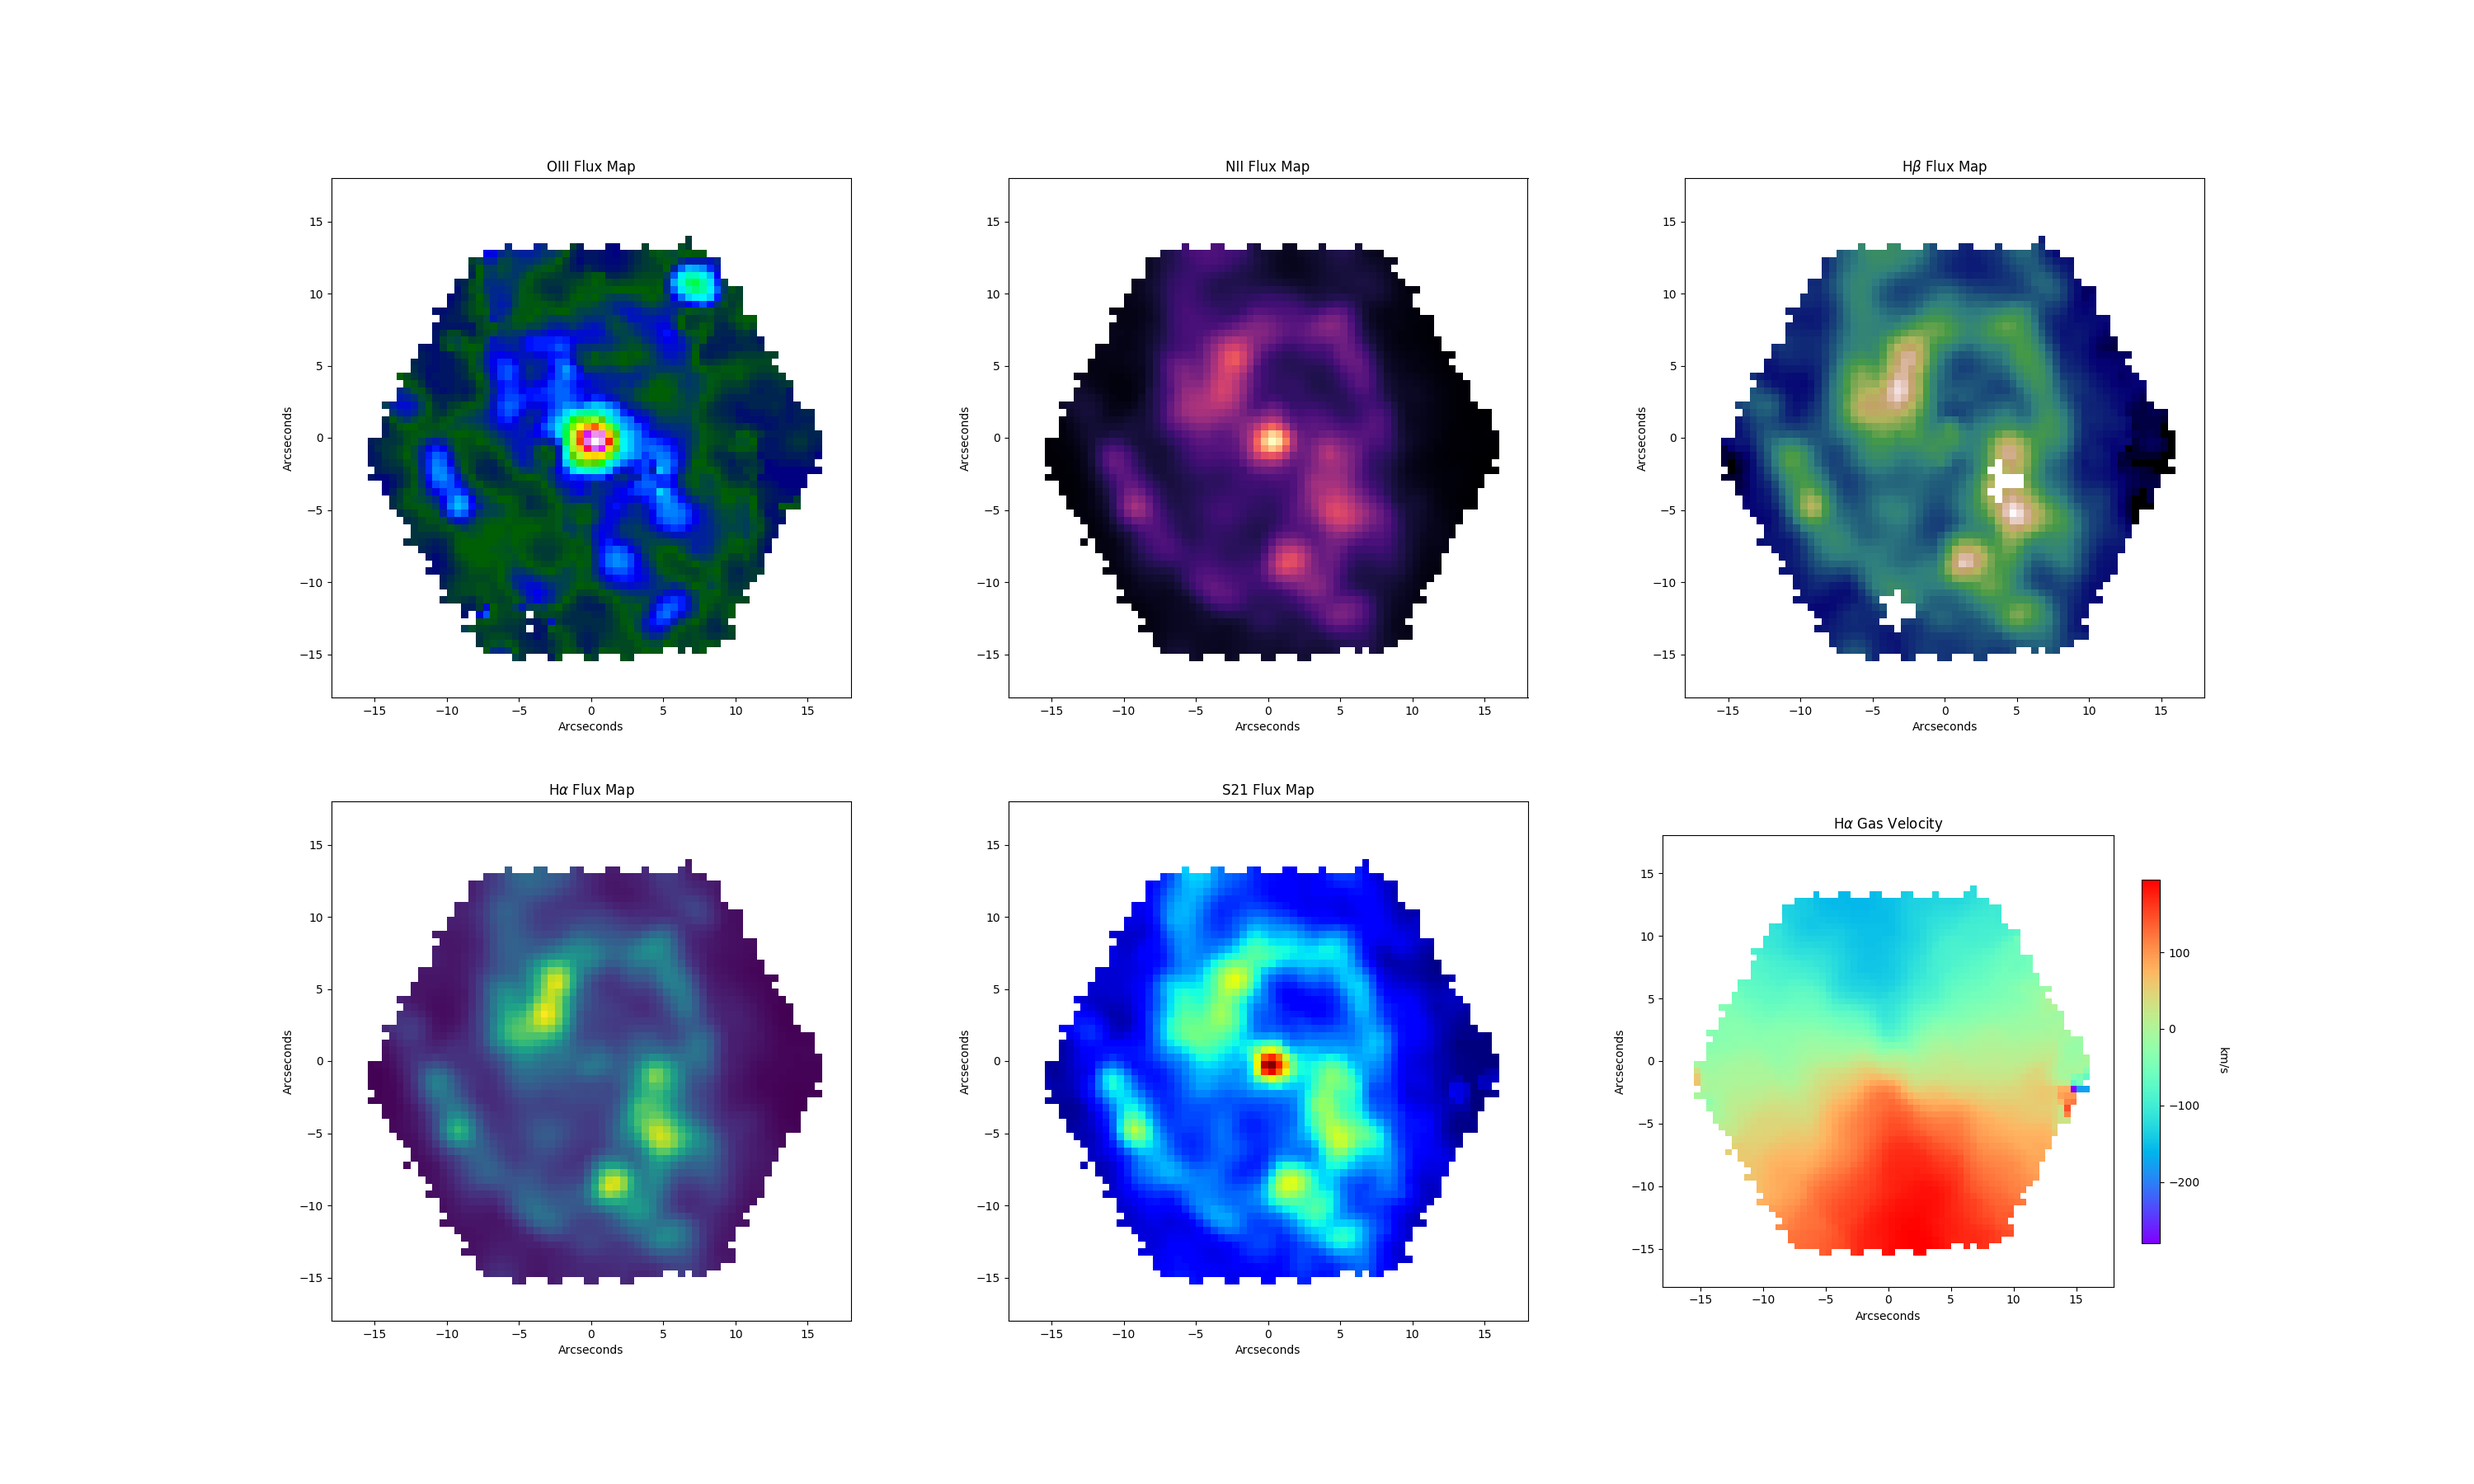
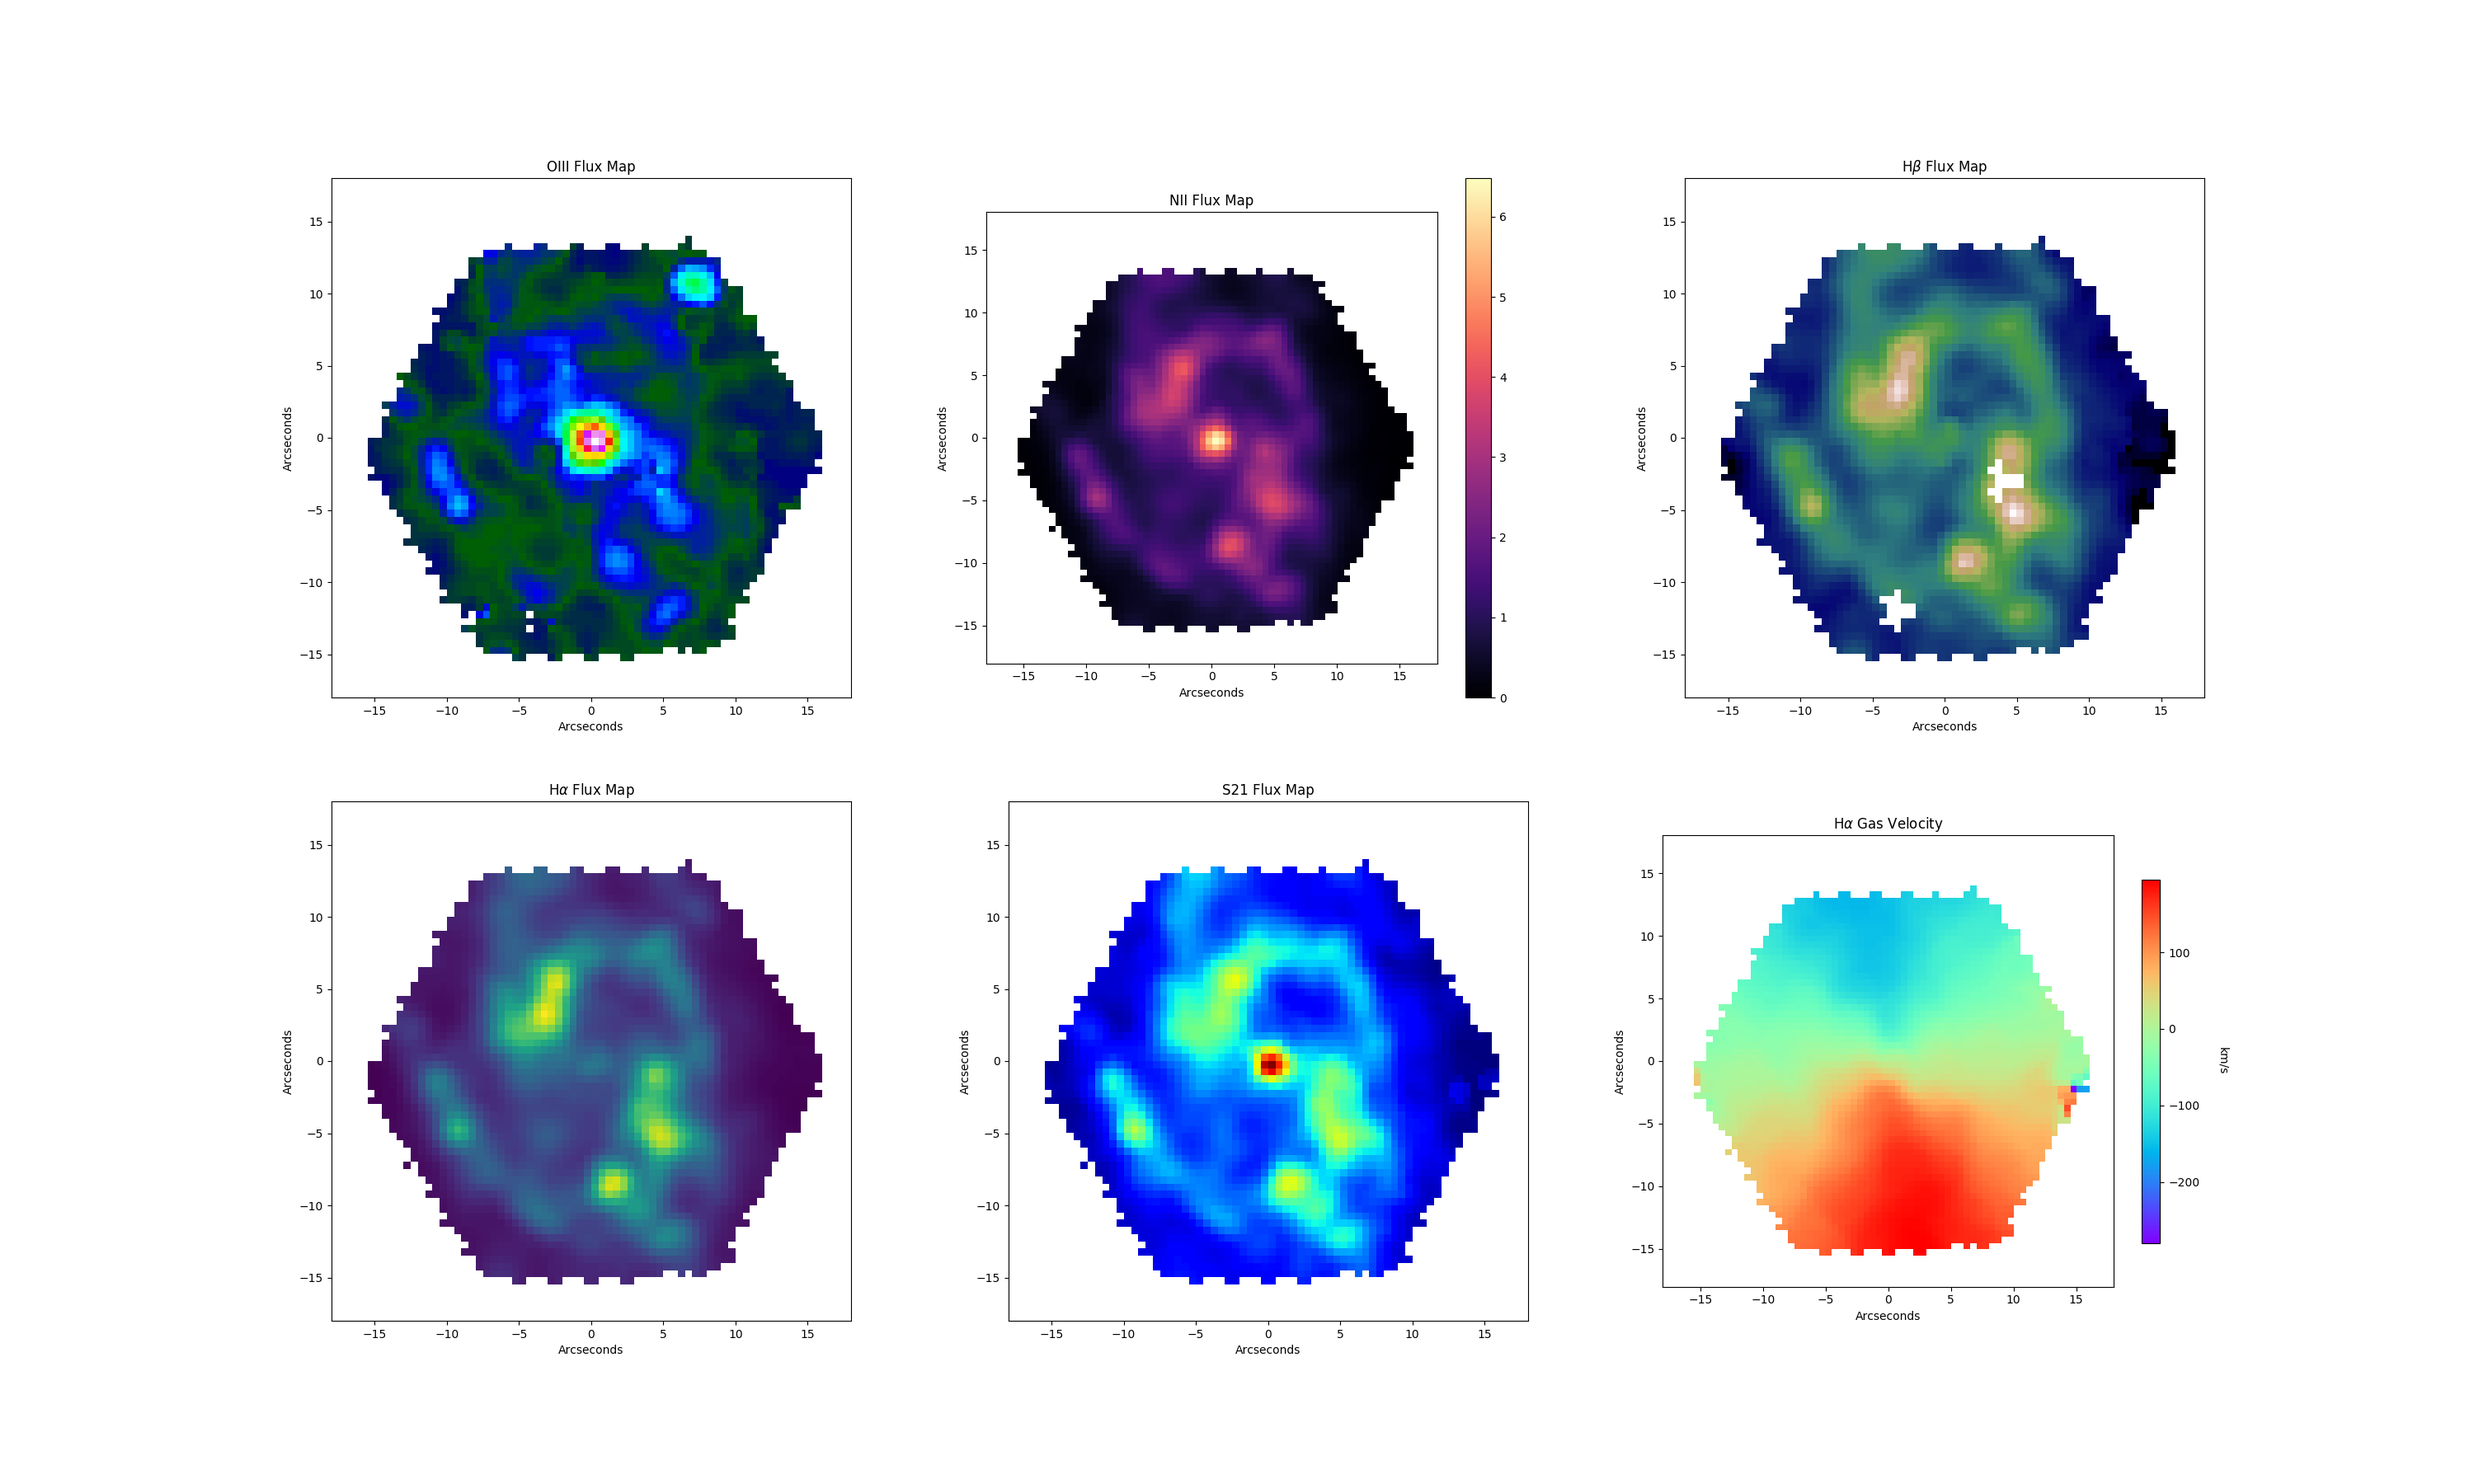
final tutorial commit

Changed region(s): [[0.372, 0.1244, 0.62, 0.4978], [0.496, 0.0933, 0.527, 0.1244]]

diff --git a/fits_files_tutorial.py b/fits_files_tutorial.py
@@ -1,0 +1,36 @@
+import astropy.table as t
+from astropy.io import fits
+import numpy as np
+import math
+from astropy.table import Table, Column
+
+#My specified galaxy IDs. You can type them in separately, read them from another fits file, or another text file, etc. These are just for demonstration purposes
+galaxyIDs = ['10001-3703', '10001-9101', '7443-12702', '7443-1901', '8134-6103']
+
+#Reading from another fits file. You should already know how to do thi
+drpall = t.Table.read('/home/celeste/Documents/astro_research/drpall-v2_3_1.fits')
+
+#Creates the empty arrays
+inclination = []
+gal_mass = []
+
+#Creates an array of each value I want to associate with an ID
+for x in range(0, len(galaxyIDs)):
+    obj = drpall[drpall['plateifu']==str(galaxyIDs[x])][0]
+    ba = obj['nsa_elpetro_ba']
+    mass = math.log10(obj['nsa_elpetro_mass'])-np.log10(.49)
+    inclination.append(ba)
+    gal_mass.append(mass)
+    
+    
+gal_mass = np.asarray(gal_mass)
+inclination = np.asarray(inclination)
+galaxyIDs = np.asarray(galaxyIDs)
+
+t = Table()
+
+t['GAL_ID'] = Column(galaxyIDs, description = 'Plate IFU' )
+t['MASS'] = Column(gal_mass, description = 'Mass of the galaxy' )
+t['PA'] = Column(inclination, description = 'b/a')
+
+t.write('/home/celeste/Documents/astro_research/tutorial/tutorialfilev1.fits')

diff --git a/tutorial_multiplot.py b/tutorial_multiplot.py
@@ -91,7 +91,8 @@ for i in range(0, len(plate_num)):
     #N2 SUBPLOT
     n2_plot = fig.add_subplot(2, 3, 2)
     plt.title('NII Flux Map')
-    n2_plot.imshow(N2, cmap = "magma", extent = shapemap, zorder = 1)
+    im = n2_plot.imshow(N2, cmap = "magma", extent = shapemap, zorder = 1)
+    plt.colorbar(mappable=im)
     plt.xlabel('Arcseconds')
     plt.ylabel('Arcseconds')
     

diff --git a/saving_fits_files.py b/saving_fits_files.py
@@ -1,0 +1,15 @@
+from astropy.io import fits
+import numpy as np
+from astropy.table import Table, Column
+
+files = fits.open('/home/celeste/Documents/astro_research/tutorial/tutorialfilev1.fits')
+
+#print(files[1].header)
+
+ids = files[1].data['GAL_ID']
+mass = files[1].data['MASS']
+pa = files[1].data['PA']
+
+print(ids)
+print(mass)
+print(pa)
